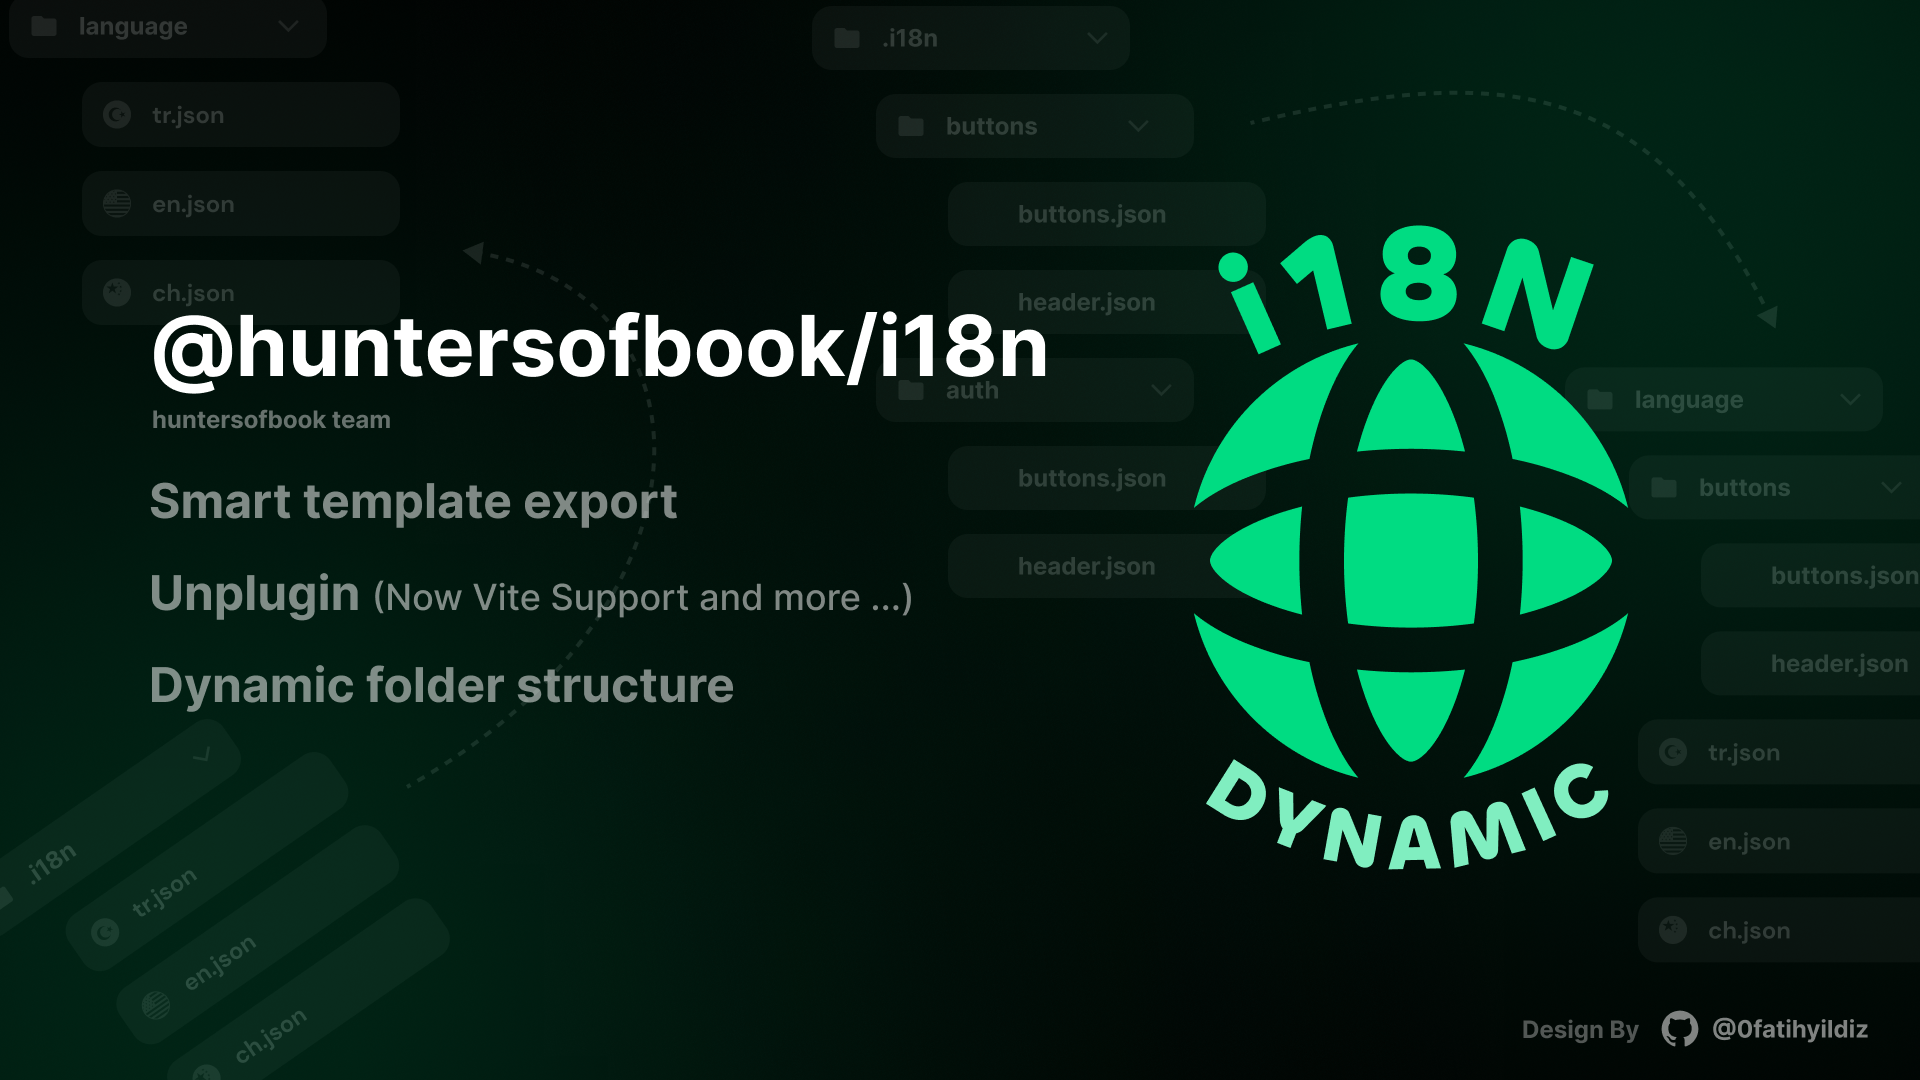
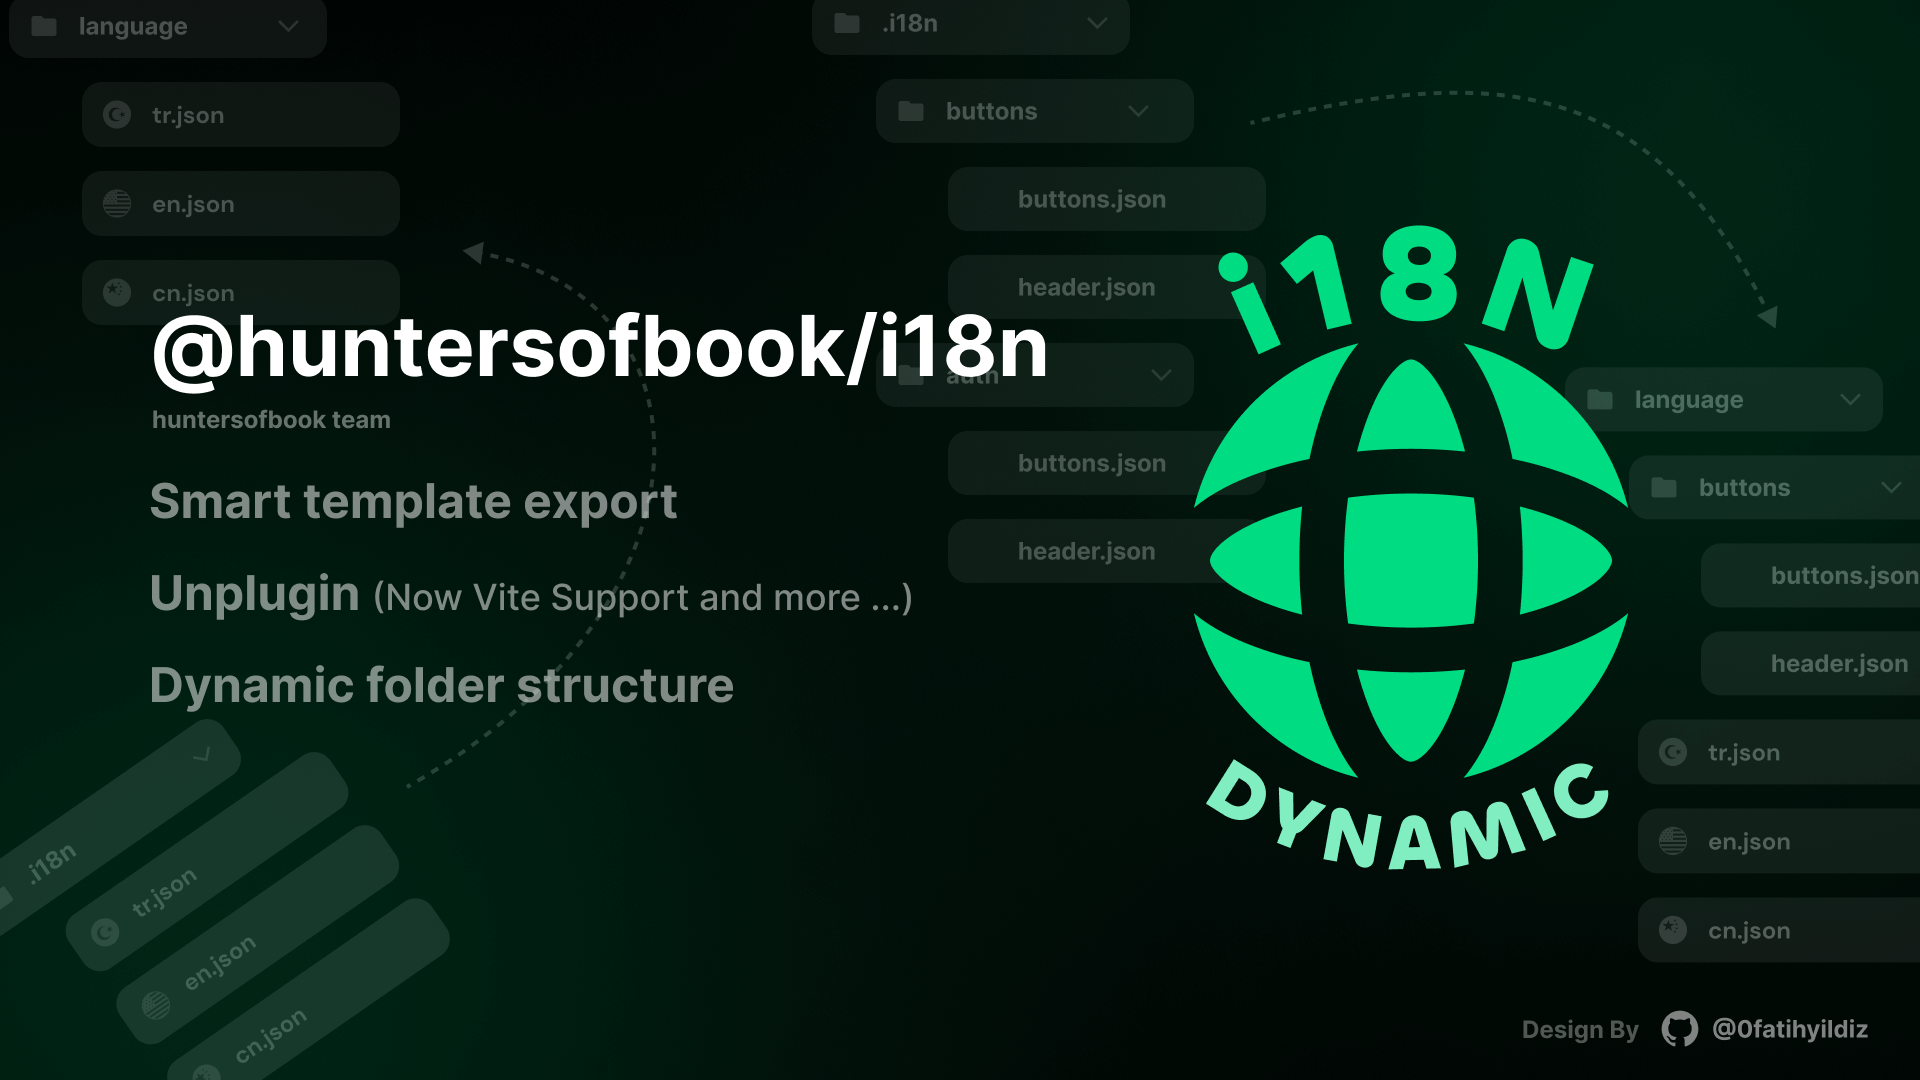
chore: i18n update

diff --git a/projects/i18n/packages/src/core/write.ts b/projects/i18n/packages/src/core/write.ts
@@ -84,18 +84,18 @@ const objectUpdate = (templateFile: string, exportFile: any) => {
 
 const autoClean = (ctx: Context, existDirectory: Boolean) => {
   if (existDirectory) {
-    const templateFiles = globbySync(`${ctx.options.dir}/**/*`, { cwd: ctx.root }).map((file) => {
-      return resolve(ctx.root, file).split(ctx.options.dir)[1]
+    const templateFiles = globbySync(`${ctx.options.templateDir}/**/*`, { cwd: ctx.root }).map((file) => {
+      return resolve(ctx.root, file).split(ctx.options.templateDir)[1]
     })
 
     const selectFiles: string[] = []
     ctx.options.languages.forEach((lang) => {
       templateFiles.forEach((file) => {
-        selectFiles.push(`${ctx.options.export}/${lang}${file}`)
+        selectFiles.push(`${ctx.options.exportDir}/${lang}${file}`)
       })
     })
 
-    const exportFiles = globbySync(`${ctx.options.export}/**/*`, { cwd: ctx.root })
+    const exportFiles = globbySync(`${ctx.options.exportDir}/**/*`, { cwd: ctx.root })
 
     const diff = exportFiles.filter((x) => {
       return !matchGlobs(x, selectFiles)
@@ -111,13 +111,13 @@ const autoClean = (ctx: Context, existDirectory: Boolean) => {
         catch (error) {
 
         }
-        const file = _file.split(ctx.options.export)[1]
+        const file = _file.split(ctx.options.exportDir)[1]
         if (file.split('/')[1] === lang)
           rmSync(_file)
       })
     })
 
-    const emtyDirs = globbySync(`${ctx.options.export}/**/*`, { onlyDirectories: true, cwd: ctx.root })
+    const emtyDirs = globbySync(`${ctx.options.exportDir}/**/*`, { onlyDirectories: true, cwd: ctx.root })
 
     function emptyDir(dirPath: string) {
       const dirContents = readdirSync(dirPath) // List dir content
@@ -135,7 +135,7 @@ export async function writeI18nLanguageFile(ctx: Context, filepath: string) {
   const base = basename(filepath)
   debug('base', base)
 
-  const dir = filepath.split(ctx.options.dir)[1]
+  const dir = filepath.split(ctx.options.templateDir)[1]
   debug('dir', dir)
 
   const dirName = dirname(dir)
@@ -145,7 +145,7 @@ export async function writeI18nLanguageFile(ctx: Context, filepath: string) {
   debug('languages', languages)
 
   // check is directory
-  const directory = globbySync(`${ctx.options.dir}/**/*`, { onlyDirectories: true })
+  const directory = globbySync(`${ctx.options.templateDir}/**/*`, { onlyDirectories: true })
   const existDirectory = directory.length > 0
 
   if (existDirectory && dirName.length < 2) {
@@ -160,7 +160,7 @@ export async function writeI18nLanguageFile(ctx: Context, filepath: string) {
       languages.forEach((lang) => {
         const templateFile = resolve(filepath)
 
-        const exportFile = resolve(ctx.root, ctx.options.export, `${lang}/${dirName}/${base}`)
+        const exportFile = resolve(ctx.root, ctx.options.exportDir, `${lang}/${dirName}/${base}`)
         debug('Dir ExportFile', exportFile)
         // isExist directory
         if (!existsSync(dirname(exportFile)))
@@ -183,10 +183,10 @@ export async function writeI18nLanguageFile(ctx: Context, filepath: string) {
 
           ctx.options.languages.forEach((lang) => {
             // isExist directory
-            if (!existsSync(resolve(ctx.root, ctx.options.export, lang)))
-              mkdirSync(resolve(ctx.root, ctx.options.export, lang), { recursive: true })
+            if (!existsSync(resolve(ctx.root, ctx.options.exportDir, lang)))
+              mkdirSync(resolve(ctx.root, ctx.options.exportDir, lang), { recursive: true })
 
-            const exportFile = resolve(ctx.root, ctx.options.export, `${lang}.json`)
+            const exportFile = resolve(ctx.root, ctx.options.exportDir, `${lang}.json`)
             debug('exportFile', exportFile)
             writeFileSync(exportFile, JSON.stringify(obj, null, 2))
           })
@@ -197,7 +197,7 @@ export async function writeI18nLanguageFile(ctx: Context, filepath: string) {
       })
     }
     else {
-      const directoryExport = globbySync(`${ctx.options.export}/**/*`, { onlyDirectories: true })
+      const directoryExport = globbySync(`${ctx.options.exportDir}/**/*`, { onlyDirectories: true })
       if (directoryExport.length > 0) {
         // remove directory
         directoryExport.forEach((dir) => {
@@ -206,7 +206,7 @@ export async function writeI18nLanguageFile(ctx: Context, filepath: string) {
       }
       const templateFile = resolve(filepath)
       languages.forEach((lang) => {
-        const exportFile = resolve(ctx.root, ctx.options.export, `${lang}.json`)
+        const exportFile = resolve(ctx.root, ctx.options.exportDir, `${lang}.json`)
         debug('exportFile', exportFile)
         objectUpdate(templateFile, exportFile)
       })

diff --git a/projects/i18n/packages/src/core/options.ts b/projects/i18n/packages/src/core/options.ts
@@ -3,8 +3,8 @@ import { slash, toArray } from '@antfu/utils'
 import type { Options, ResolvedOptions } from '../type'
 
 export const defaultOptions: Omit<Required<Options>, 'version' | 'globs'> = {
-  dir: '.i18n',
-  export: 'language',
+  templateDir: '.i18n',
+  exportDir: 'language',
   deep: true,
   extensions: ['json'],
   languages: ['en', 'tr'],
@@ -23,7 +23,7 @@ export function resolveOptions(options: Options, root: string): ResolvedOptions 
       ? resolved.extensions
       : `{${resolved.extensions.join(',')}}`
 
-    resolved.resolvedDir = slash(resolve(root, resolved.dir))
+    resolved.resolvedDir = slash(resolve(root, resolved.templateDir))
     console.log('resolved.resolvedDir', resolved.resolvedDir)
     resolved.globs = toArray(resolved.resolvedDir).map(i => resolved.deep
       ? slash(join(i, `**/*.${extsGlob}`))
@@ -33,10 +33,10 @@ export function resolveOptions(options: Options, root: string): ResolvedOptions 
     if (!resolved.extensions.length)
       throw new Error('[unplugin-vue-components] `extensions` option is required to search for components')
 
-    resolved.export = resolve(
+    resolved.exportDir = resolve(
       root,
-      typeof resolved.export === 'string'
-        ? resolved.export
+      typeof resolved.exportDir === 'string'
+        ? resolved.exportDir
         : 'language',
     )
 

diff --git a/projects/i18n/packages/src/core/fs/glob.ts b/projects/i18n/packages/src/core/fs/glob.ts
@@ -1,4 +1,4 @@
-import { mkdir, mkdirSync, writeFile, writeFileSync } from 'node:fs'
+import { mkdirSync, writeFileSync } from 'node:fs'
 import { globbySync } from 'globby'
 import Debug from 'debug'
 import type { Context } from '../context'
@@ -19,14 +19,14 @@ export function searchI18nFiles(ctx: Context) {
   if (!files.length) {
     // create dic
     // create file
-    mkdirSync(`${root}/${ctx.options.dir}`, { recursive: true })
+    mkdirSync(`${root}/${ctx.options.templateDir}`, { recursive: true })
     const template = `{
   "huntersofbook": "read a book",
   "hello": "hello"
 }
 `
     writeFileSync(`${root}/${
-      ctx.options.dir
+      ctx.options.templateDir
     }/template.json`, template)
   }
 

diff --git a/projects/i18n/packages/src/type.ts b/projects/i18n/packages/src/type.ts
@@ -18,7 +18,7 @@ export interface Options {
   * Export files
   * @default language
   */
-  export?: string
+  exportDir?: string
 
   /**
    * Search for subdirectories
@@ -30,7 +30,7 @@ export interface Options {
      * Relative paths to the directory to search for components.
      * @default '.i18n'
    */
-  dir?: string
+  templateDir?: string
 
   /**
     * Valid file extensions for components.
@@ -76,9 +76,9 @@ export interface FileInfo extends ImportInfo {
 
 export type ResolvedOptions = Omit<
     Required<Options>,
-   | 'dir' | 'extensions'
+  | 'templateDir' | 'extensions'
 > & {
-  dir: string
+  templateDir: string
   root: string
   resolvedDir: string
   extensions: string[]

diff --git a/projects/i18n/packages/src/core/context.ts b/projects/i18n/packages/src/core/context.ts
@@ -4,7 +4,7 @@ import type { UpdatePayload, ViteDevServer } from 'vite'
 
 import { basename } from 'pathe'
 import Debug from 'debug'
-import { slash, throttle, toArray } from '@antfu/utils'
+import { slash, toArray } from '@antfu/utils'
 import type { FileInfo, Options, ResolvedOptions } from '../type'
 import { matchGlobs } from './utils'
 import { writeI18nLanguageFile } from './write'

diff --git a/projects/i18n/packages/src/core/unplugin.ts b/projects/i18n/packages/src/core/unplugin.ts
@@ -14,7 +14,7 @@ export default createUnplugin<Options>((options = {}) => {
       configResolved(config: ResolvedConfig) {
         ctx.setRoot(config.root)
         // ctx.sourcemap = true
-        if (ctx.options.dir)
+        if (ctx.options.templateDir)
           ctx.searchGlob()
 
         if (config.build.watch && config.command === 'build')

diff --git a/projects/i18n/packages/src/core/utils.ts b/projects/i18n/packages/src/core/utils.ts
@@ -1,6 +1,5 @@
 import minimatch from 'minimatch'
 import { slash } from '@antfu/utils'
-import type { ImportInfo } from '../type'
 import { DISABLE_COMMENT } from './constants'
 
 export function matchGlobs(filepath: string, globs: string[]) {

diff --git a/projects/i18n/playground/vite.config.ts b/projects/i18n/playground/vite.config.ts
@@ -6,7 +6,7 @@ export default defineConfig({
   plugins: [
     vue(),
     i18n({
-      languages: ['tr', 'en', 'ch'],
+      languages: ['tr', 'en', 'cn'],
     }),
   ],
 })

diff --git a/projects/i18n/packages/README.md b/projects/i18n/packages/README.md
@@ -18,14 +18,13 @@ It will be the `.i18n` folder. Save there by adding `en.json`, `tr.json`. It wil
 
 ### Vite
 
-
 ```ts
 import i18n from '@huntersofbook/i18n/vite'
 
 export default defineConfig({
   plugins: [
     i18n({
-      languages: ['tr', 'en', 'ch'],
+      languages: ['tr', 'en', 'cn'],
     }),
   ],
 })
@@ -43,6 +42,8 @@ Join our [Discord channel](https://discord.gg/xAj9uqMrjC) or [open an issue](htt
 | Name | Type | Default | Description |
 | --- | --- | --- | --- |
 | **languages** | `string[]` | `['tr', 'en', 'ch']` | Schema export language files. |
+| **templateDir** | `string` | `'.i18n'` | Schema export language files. |
+| **exportDir** | `string` | `'language'` | Schema export language files. |
 ... soon more detail
 
 
@@ -56,6 +57,7 @@ Pnpm version >= 7
 - Install dependencies using `pnpm install`
 - Go to `i18n/packages` pnpm dev or pnpm build
 - Go to `i18n/playground` pnpm dev
+- or `packages/i18n` in `dev:package` | `dev:playground-vite` used.
 
 
 
